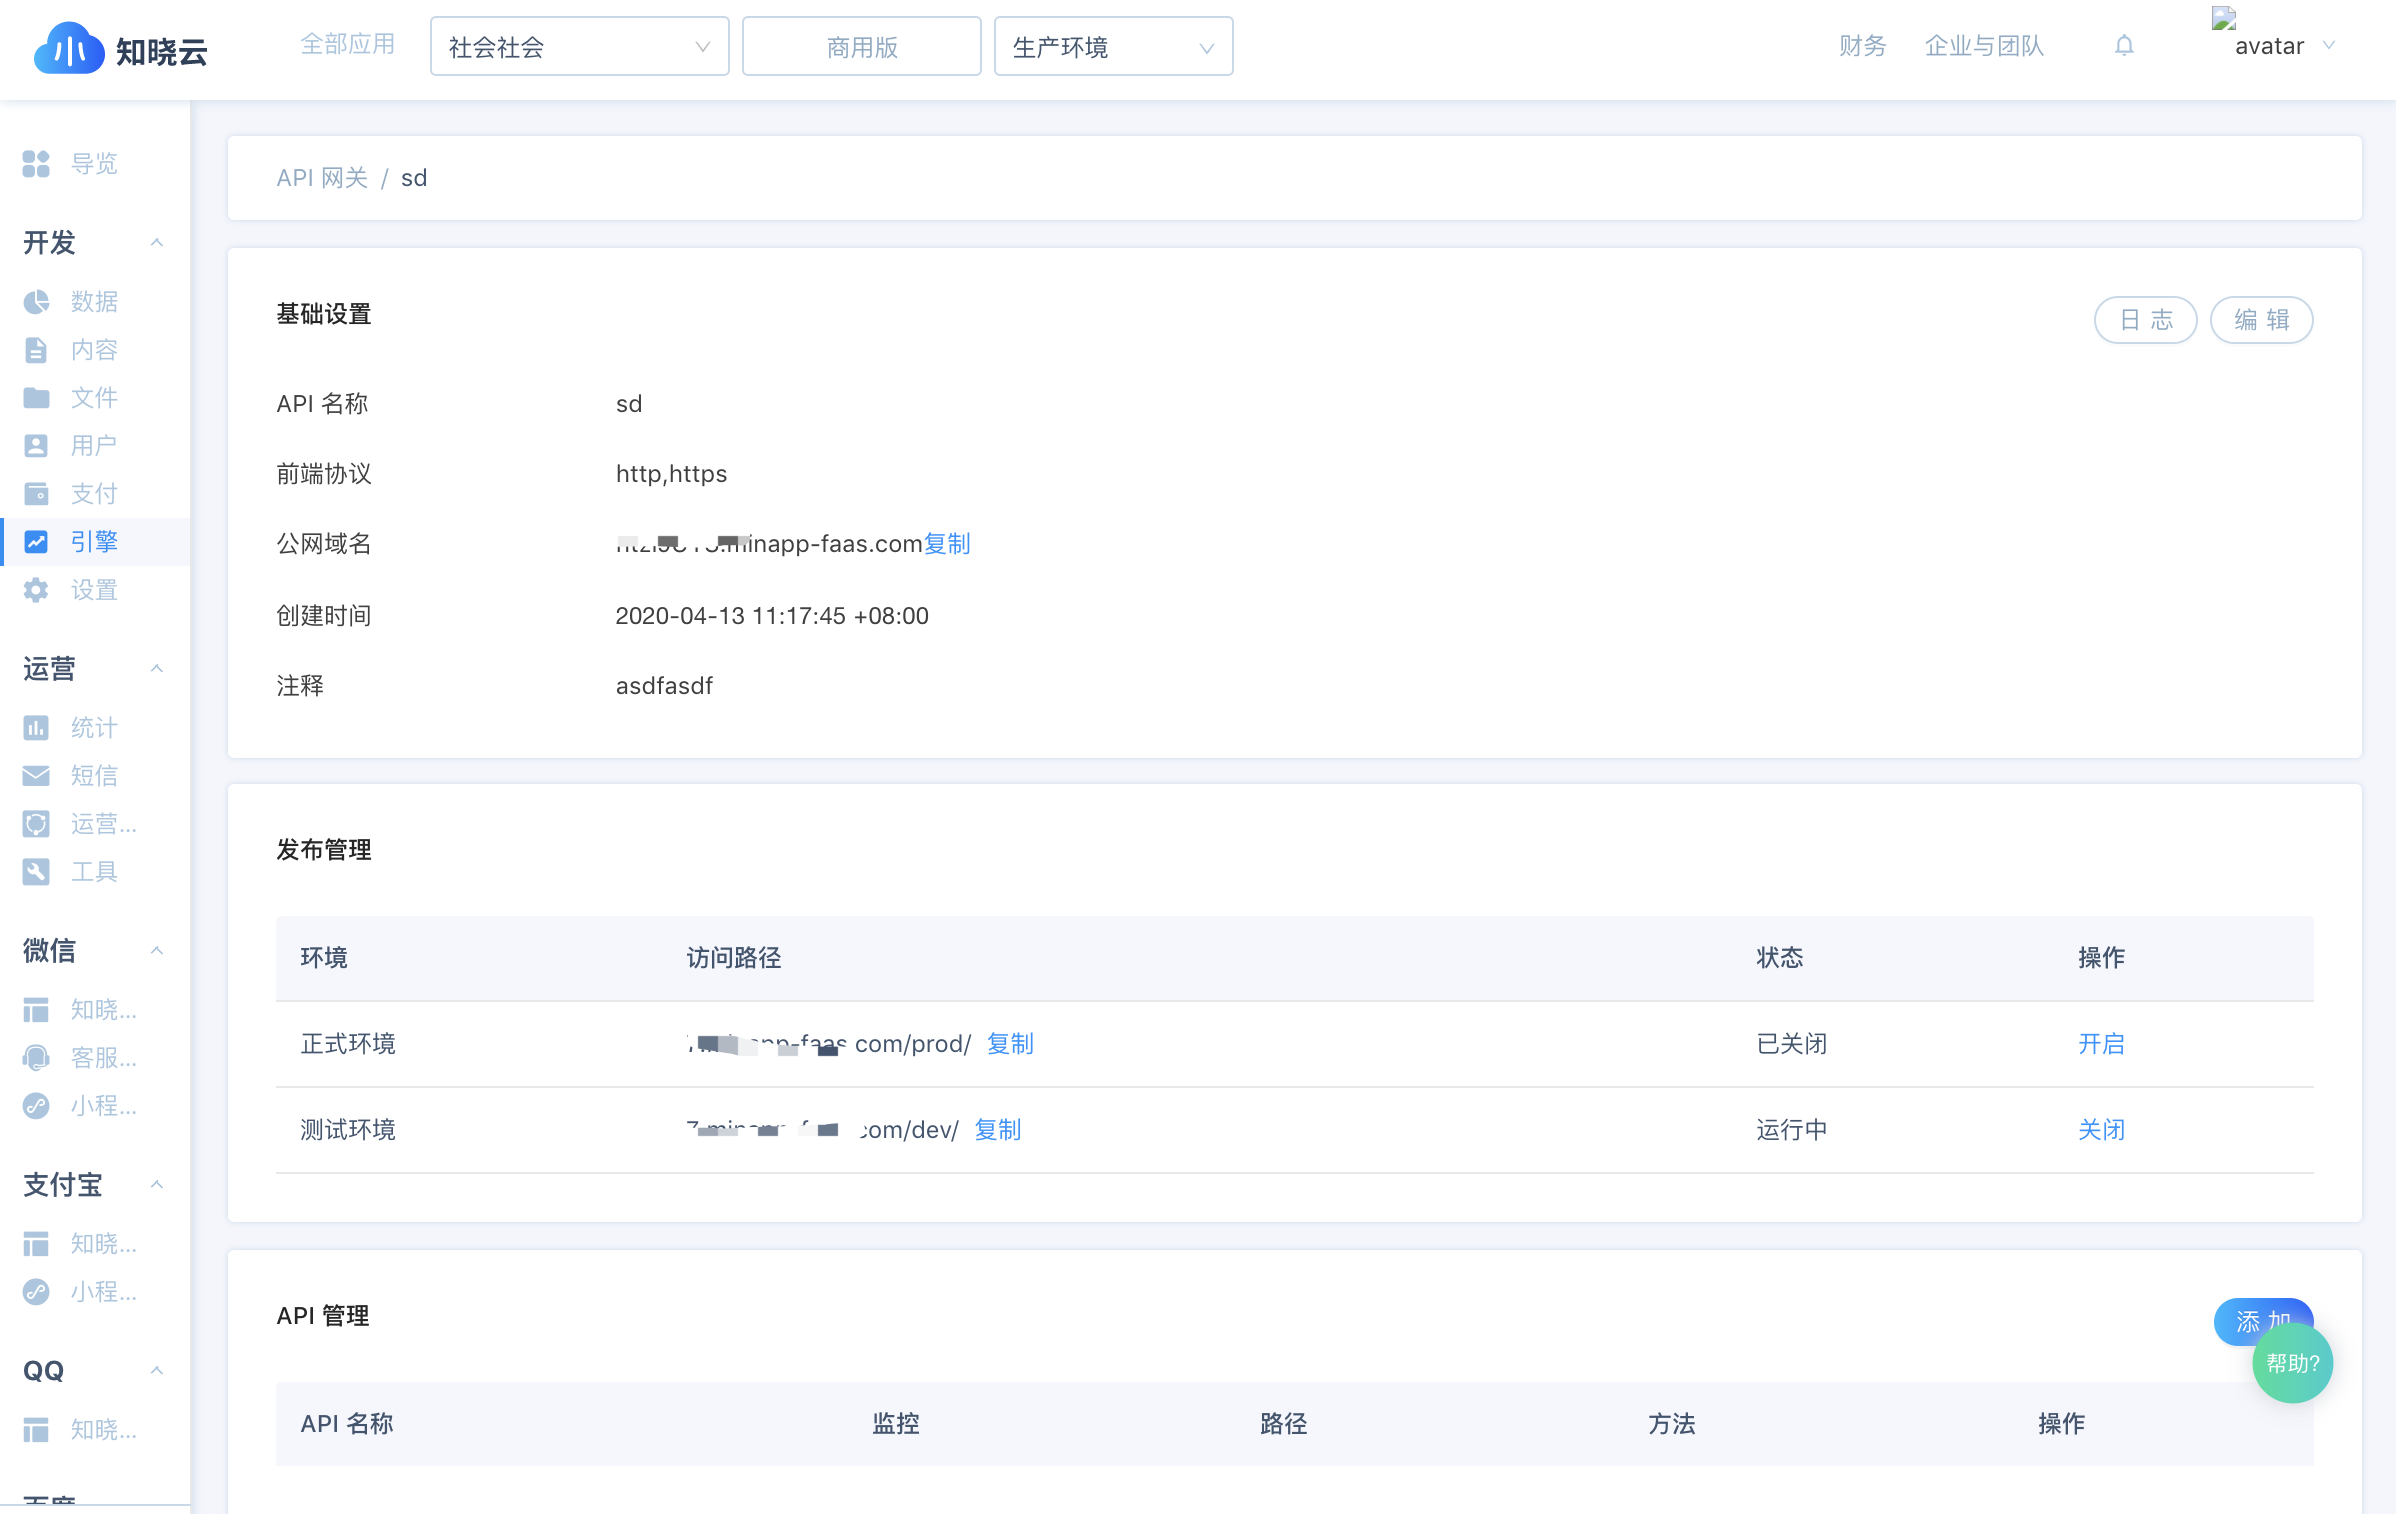
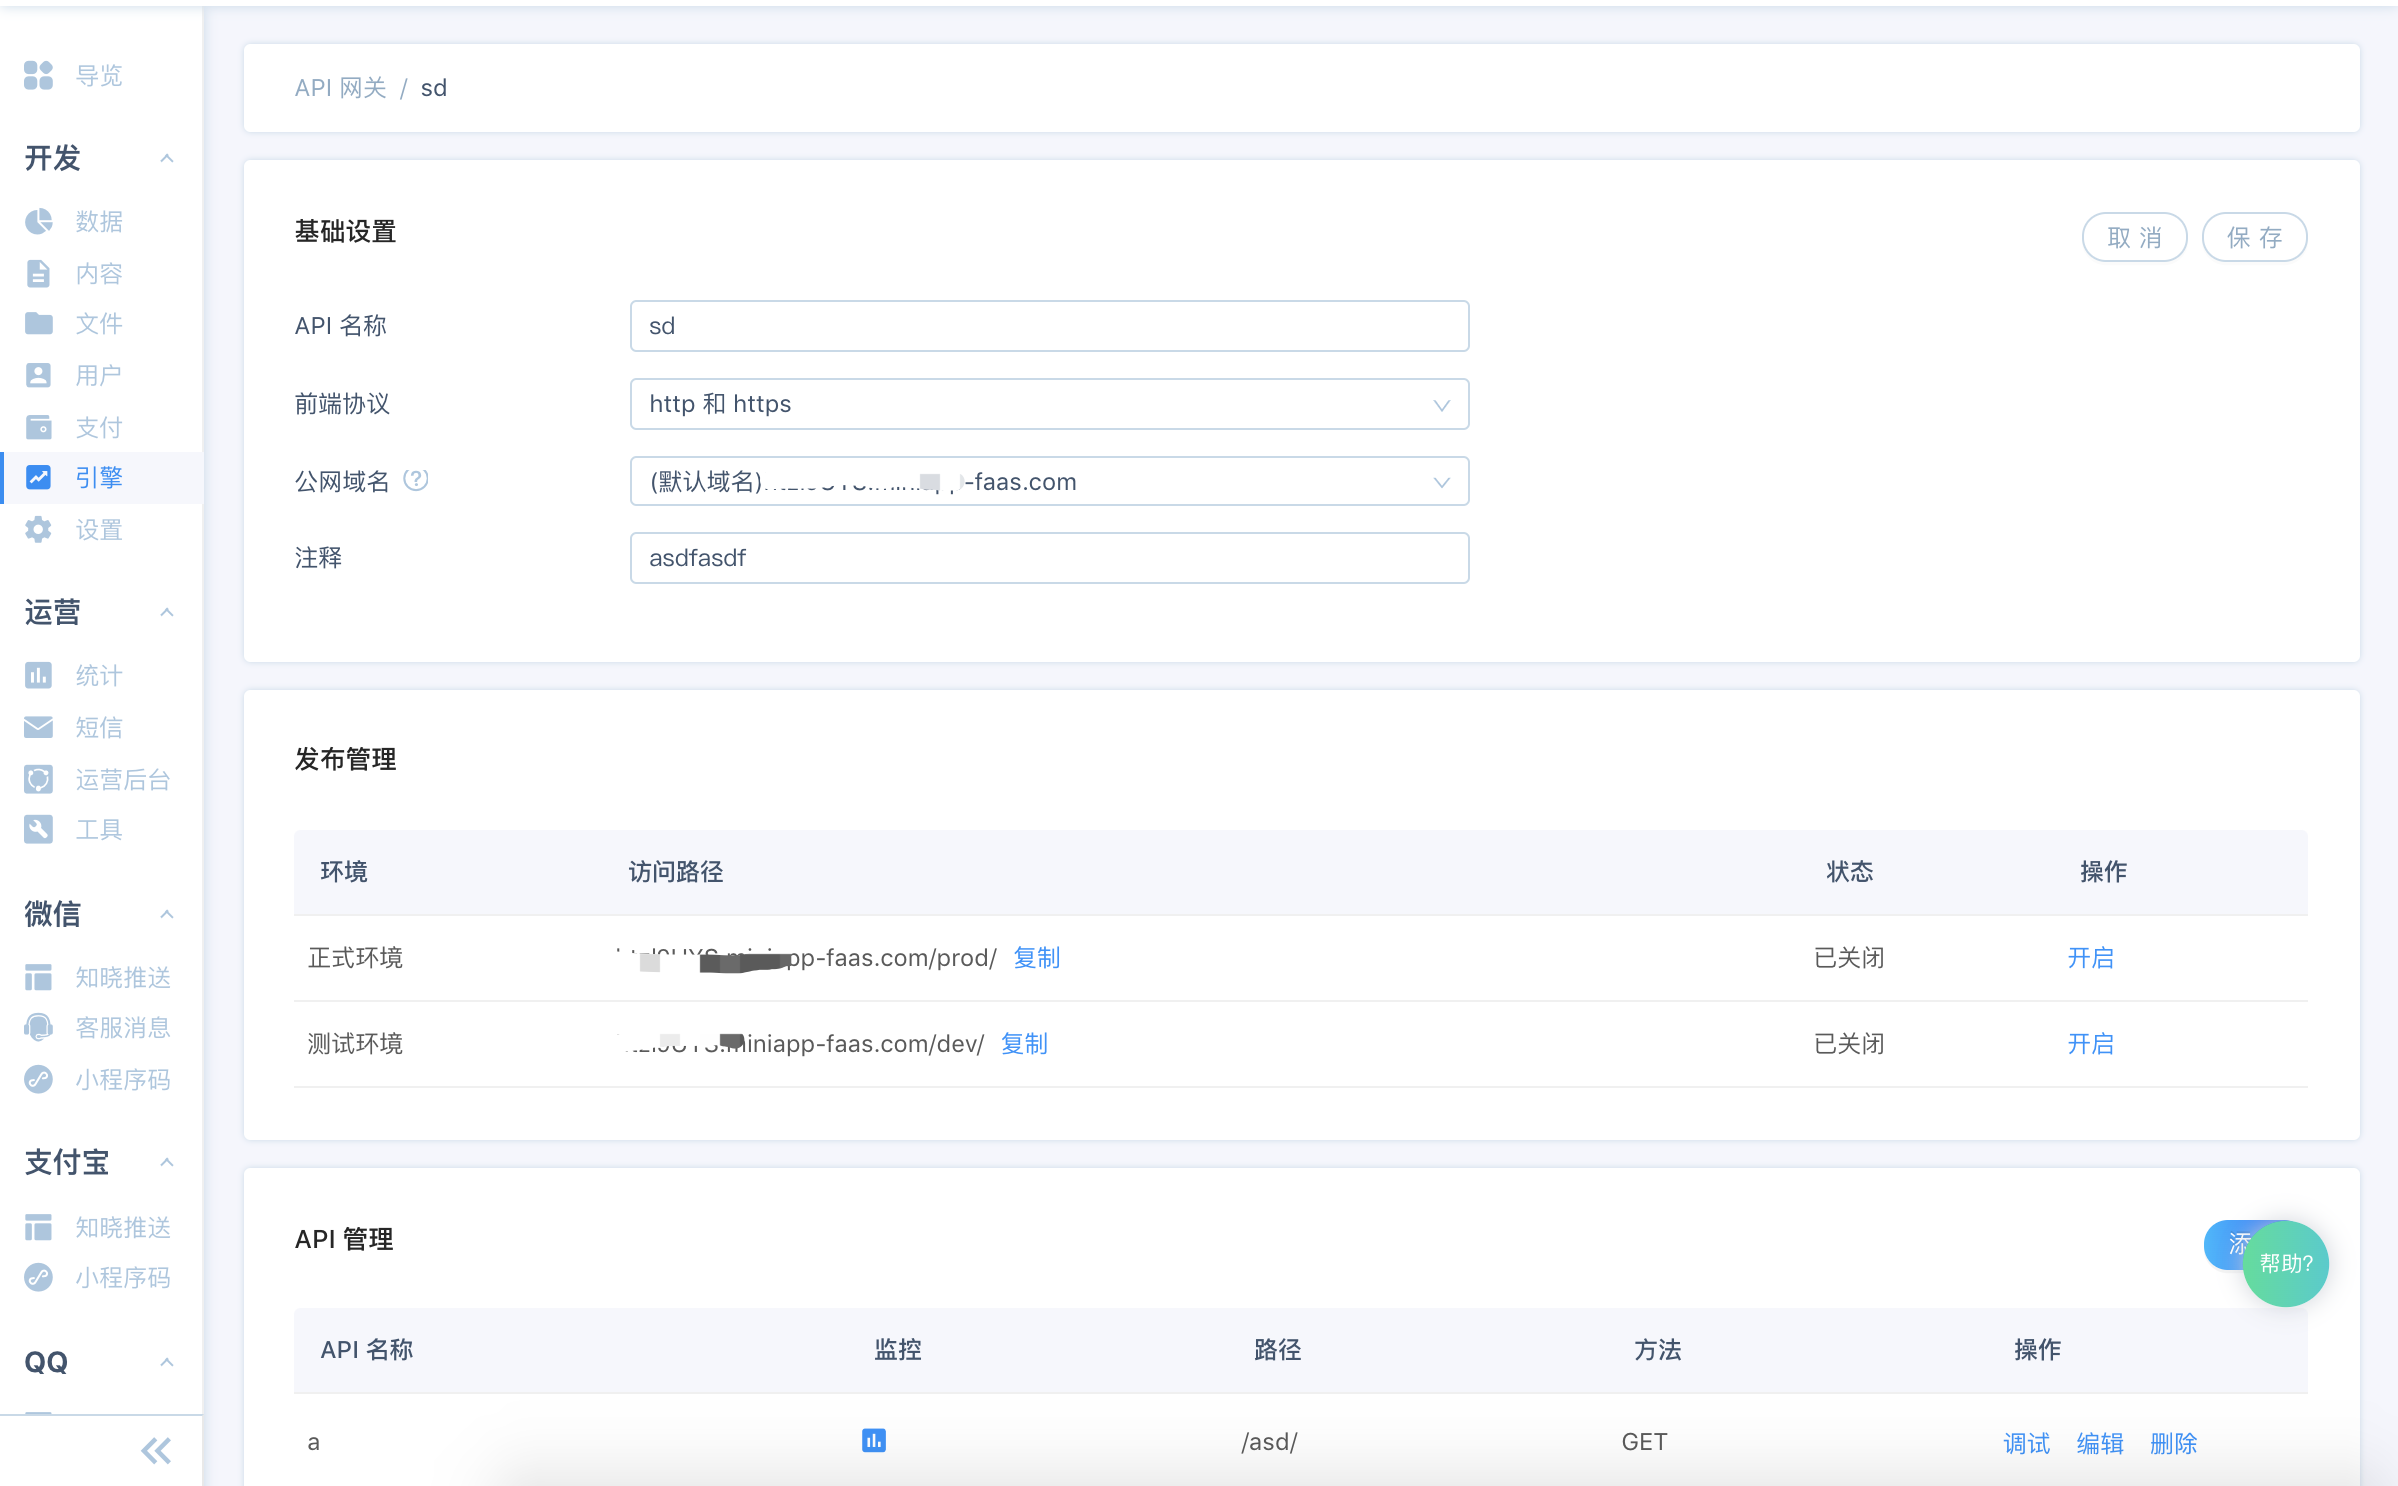
更详细的 API 网关的控制台使用说明

diff --git a/dashboard/basic-services/api-gateway.md b/dashboard/basic-services/api-gateway.md
@@ -1,28 +1,100 @@
 # API 网关
-PI网关（API Gateway）可以看做系统与外界联通的入口，您可以在网关进行处理一些非业务逻辑的逻辑，比如权限验证，监控，缓存，请求路由等等。
+API网关（API Gateway）可以看做系统与外界联通的入口，您可以在网关进行处理一些非业务逻辑的逻辑，比如权限验证，监控，缓存，请求路由等等。
 
 ## 基础操作
 
 ### 创建 API 网关
 
+通常，某些特定功能的实现需要通过一组相关的 API 来实现，API 网关可以帮您高效、便捷地管理一组有关联的 API。您可以为有关联的多个 API 创建一个 API 网关。
+
+在 API 网关页面点击表格右上角的「添加」按钮打开创建 API 网关的弹窗。
+
+填写`名称`，选择`前端协议`及填写`注释`。`前端类型`可选择 HTTP、HTTPS、HTTP 与 HTTPS 任一种。
+点击 「确定」，API 网关创建成功并跳转到详情页面。
+
 ![创建 API 网关](/images/dashboard/basic-services/gateway-create.png)
 
-点击「添加」按钮打开创建 API 网关的弹窗。
-知晓云提供了 "http"、"https"、"http 和 https"三种前端协议，您可以根据自己的实际需要进行选择。
-API 网关创建完成后将跳转到详情页面。
+### API 网关列表
+
+在 API 网关列表页，您可以查看所有 API 网关的基础信息，包括域名、协议及各个环境的发布状态等，您还可以选择需要操作的 API 网关，点击操作列的「删除」对网关进行删除或者点击「编辑」跳去详情页对网关进行编辑，也可以点击监控列的图标跳转到 API 网关的监控页面查看网关的使用情况。
+
+![API 网关列表](/images/dashboard/basic-services/gateway-list.png)
 
 ### API 网关详情
 
 ![API 网关详情页](/images/dashboard/basic-services/gateway-detail.png)
 
-创建 API 网关完成后或者点击 API 网关列表最后一列的「编辑」按钮，将跳转到 API 网关详情页面。
-您可以在这边查看 API 网关的基本信息，点击右上角的「编辑」按钮可以将基础设置模块切换到编辑状态对 API 网关进行编辑。
+在 API 网关列表选择需要编辑的网关，点击操作列的「编辑」，跳转到 API 网关详情页面。
 
-此页还包含对 API 网关进行发布，以及添加 API 的模块。
+您可以在这边查看 API 网关的基本信息，点击右上角的「编辑」按钮可以将基础设置模块切换到编辑状态。
+
+在编辑状态您可以重新为 API 网关设置网关名称、前端协议、公网域名及注释，公网域名可选择默认域名（在创建 API 网关的时候，知晓云会自动为您分配的域名）与自有域名任一种，如果您想要使用自有域名，则需要您填写一个已经在知晓云接入备案的域名（由于一个域名只能绑定一个 API 网关，建议在绑定网关时使用三级域名）。
+
+编辑好后点击右上角的「保存」按钮保存修改。
+
+该页面好包含「发布管理」和「API 管理」模块。您可以在该页面对 API 网关进行发布，为网关添加 API。
+
+### 创建 API
+
+在API 网关详情页，点击「API 管理」模块右上角的添加按钮即跳转到创建 API 的页面。
+
+![创建 API](/images/dashboard/basic-services/gateway-create-api-1.png)
+
+创建 API 一共有两个步骤，分别为「前端配置」和「后端配置」
+
+**前端配置**：API 的前端配置指提供给外界访问的相关配置，包括 API 名称、前端类型、请求协议、HTTP 方法、URL 路径和入参的定义。
+
+在该步骤，必填的参数有`前端协议`、`API 名称`、`路径`和`请求方法`，其他选填。
+
+`API 名称`：最长 50 个字符，支持 a-z，A-Z，0-9，_，-。
+
+`前端协议`：使用 API 网关的前端协议，这里不允许修改。
+
+`路径`：API 的请求域名路径。必须以"/"开头，支持大小写字母，数字。
+
+`请求方法`：API 请求方法。API 路径 + API 请求方法，是 API 的唯一标识。可选择 GET、POST、PUT、DELETE、ANY 方法。
+
+`认证方式`：可以选择 JWT 和免鉴权任一种，默认选择 JWT。
+
+`密钥`：`认证方式`选择 JWT 的时候，需要填写该参数。您需要先在 「设置- SDK」 添加了 JWT 之后才有可选择的密钥。可以点击右边的“查看密钥”跳转到 SDK 页面查看、添加 JWT。
+
+`支持 CORS`：默认不选中，如果钩上则需要填写安全域名。
+
+`最大并发量`：API 的最大并发量，单位为 次/分钟，不能大于应用套餐提供的最大并发量。详情请看[知晓云计价方案](https://cloud.minapp.com/pricing/)
+
+`参数配置`：默认需要配置一个参数，如果不需要，则可以点击最右边 - 删除参数，如果需要多个参数，则可以点击下面的「添加」按钮添加参数配置。
+
+配置好后点击「下一步」到「后端配置」。
+
+![创建 API 前端配置](/images/dashboard/basic-services/gateway-create-api-2.png)
+
+![JWT](/images/dashboard/basic-services/gateway-jwt.png)
+
+**后端配置**：API 的后端配置，是指的实际提供真实服务的配置。API 网关会将前端请求，依据后端配置进行转换后，转发调用到云函数。
+
+该步骤所有参数必填，`后端类型`目前仅支持 cloudFunction，不允许修改。
+
+`云函数`：在 API 被调用的时候会跑您选择的云函数，处理云函数中的逻辑。您需要分别为正式环境和测试环境配置云函数，点开下拉框选择您的云函数，如果没有您要选择的，可以选择新增云函数，此时会新建一个浏览器标签页跳转到云函数页面，您可以在该页面新增一个云函数，然后回到创建 API 的标签页，点击下拉框右边的刷新图标获取最新的云函数列表，找到新建的云函数，选中它。
+
+![创建 API 后端配置](/images/dashboard/basic-services/gateway-create-api-3.png)
+
+所有配置项都填完之后点击完成，API 创建成功跳转到 API 网关详情页查看 API 列表。
+
+### API 列表
+
+API 网关的「API 管理」模块可以帮您高效、便捷地管理一组有关联的 API 。
+
+在 API 网关详情页的「API 管理」模块可以查看当前网关下所有 API 的信息。您可以选择需要操作的 API，在操作列点击删除按钮删除 API，点击编辑按钮跳去 API 编辑页对 API 进行编辑，点击调试按钮弹出调试弹窗对 API 进行简单调试确保无误。
+
+![API 列表](/images/dashboard/basic-services/gateway-api-list.png)
 
 ### API 网关的发布
 
-您可以在 API 网关的详情页的「发布管理」模块切换网关的发布状态，API 网关的发布在不同的环境是分开的，您可以分别设置不同环境的网关发布状态。
+在完成网关内 API 的配置并确保无误后，即可以进行发布。
+
+在 API 网关的详情页的「发布管理」模块切换网关的发布状态，API 网关的发布在不同的环境是分开的，您可以分别设置正式环境和测试环境环境的网关发布状态。
+
+选择您要修改的发布环境，点击操作列的「开启」或「关闭」切换发布状态。
 
 ![API 网关发布](/images/dashboard/basic-services/gateway-publish.png)
 
@@ -32,18 +104,12 @@ API 网关创建完成后将跳转到详情页面。
 
 ![API 网关监控页](/images/dashboard/basic-services/gateway-monitoring.png)
 
-监控面板可以查看`调用次数`、`运行时间`以及`错误次数`三个类目的统计数据，开发者能够十分方便、直观地看到函数的运行情况。
-
-### 创建 API
-
-![创建 API](/images/dashboard/basic-services/gateway-create-api.png)
-
-在 API 网关详情页的「API 管理」模块，您可以为当前 API 网关添加、编辑、调试和删除 API。点击「API 管理」模块右上角的添加按钮即跳转到创建 API 的页面。
-
-注意，前端认证配置步骤的「认证方式」选择密钥对的话，需要先在 设置- SDK 添加了 JWT 之后在该步骤才有可选择的 JWT。
+监控面板可以查看`请求次数`、`响应时间`以及`内网出流量`三个类目的统计数据，开发者能够十分方便、直观地看到 API 网关的使用情况。
 
 ### API 的监控
 
 在「API 管理」模块点击你想看的 API 的「监控」列即可打开 API 的监控面板。左上角提供了一些筛选器，供用户进行数据筛选。
 
 ![API 监控](/images/dashboard/basic-services/gateway-api-monitoring.png)
+
+监控面板可以查看`请求次数`、`响应时间`以及`内网出流量`三个类目的统计数据，开发者能够十分方便、直观地看到 API 的调用情况。
